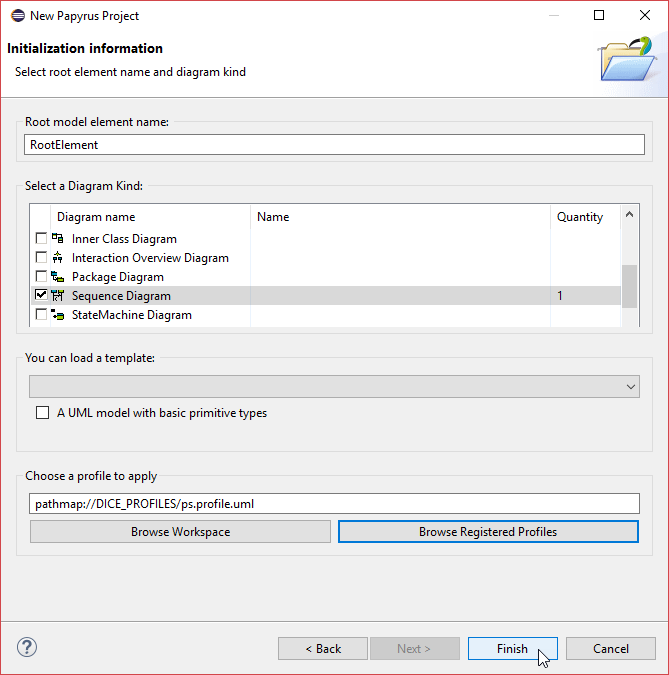
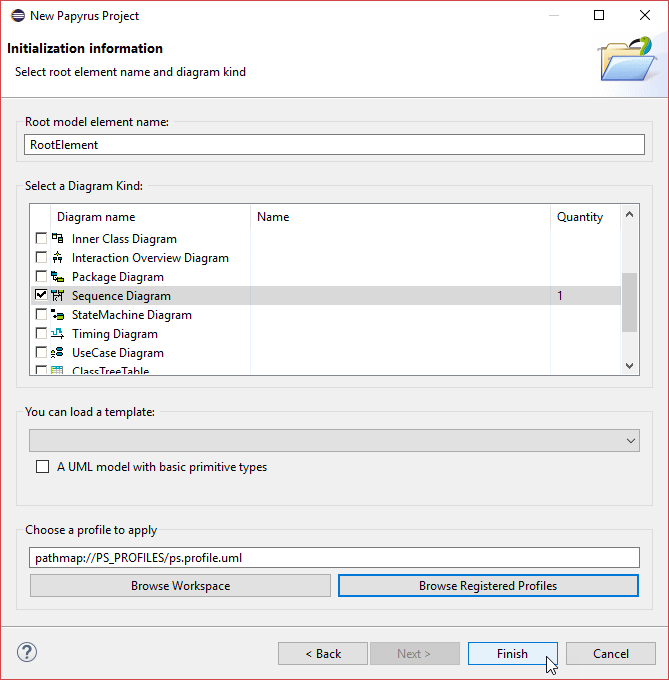
Fix PATHMAP in plugin.xml and example using it

diff --git a/README.md b/README.md
@@ -86,7 +86,7 @@ The location of the file containing specific transformation to be executed can b
 
 In addition, by using the *Edit this file in the workspace* link, the file is opened into the Eclipse platform with the default QVTo editor. Changes done in this editor are directly reflected in the transformation, which allows direclty customizing the QVT transformation easily without rebuilding the plug-ins.
 
-Next image shows what the IDE looks like when the file is opened in the workbench. Once the file has been opened, the rpeferences window can be close to proceed with the editing.
+Next image shows what the IDE looks like when the file is opened in the workbench. Once the file has been opened, the preferences window can be closed to proceed with the editing.
 
 ![Transformation shown in the QVTo editor](docs/images/15-edit-transformation.png)
 
